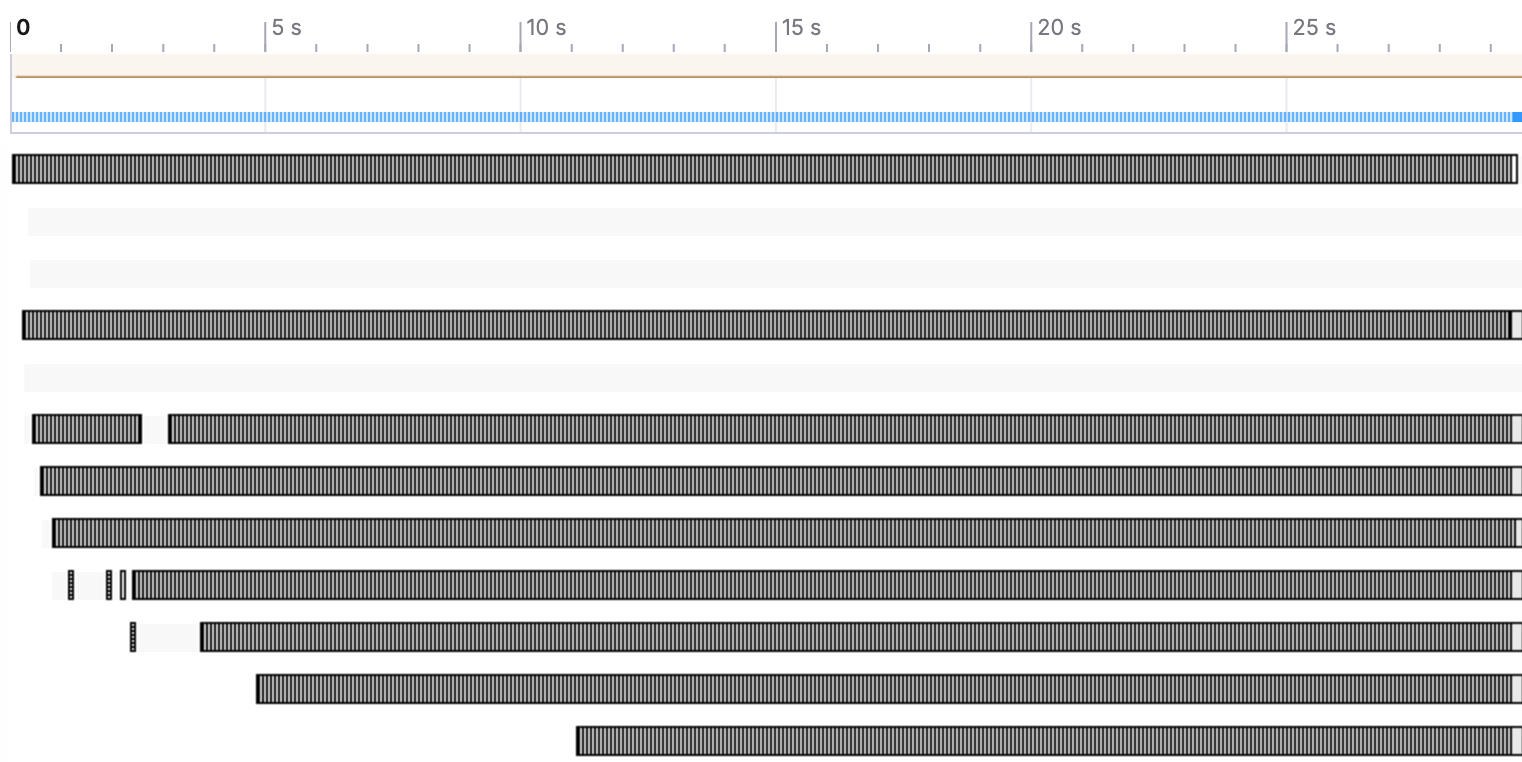
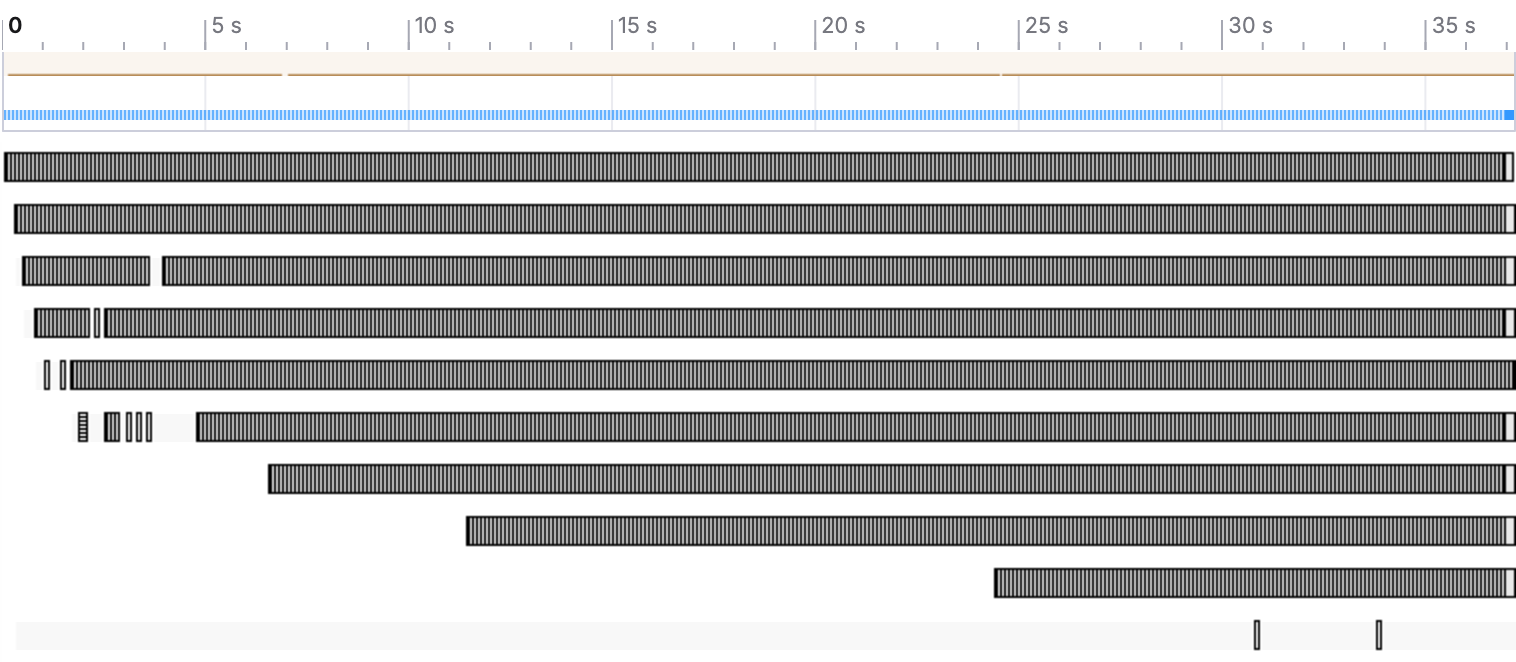
Update timeline screenshot

diff --git a/ConsoleApp/Program.cs b/ConsoleApp/Program.cs
@@ -4,7 +4,7 @@ namespace ConsoleApp;
 
 public class Program
 {
-    private static readonly string InputFile = "./resources/measurements_10M.txt";
+    private static readonly string InputFile = "./resources/measurements_1B.txt";
 
     public static async Task Main(string[] args)
     {
